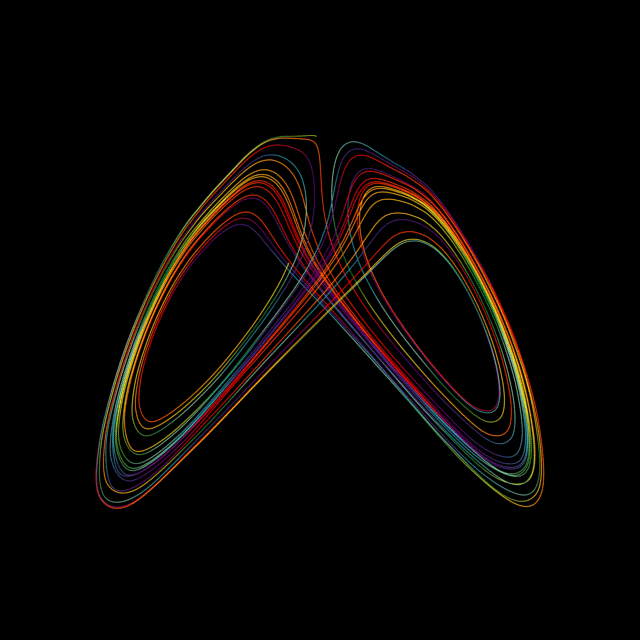
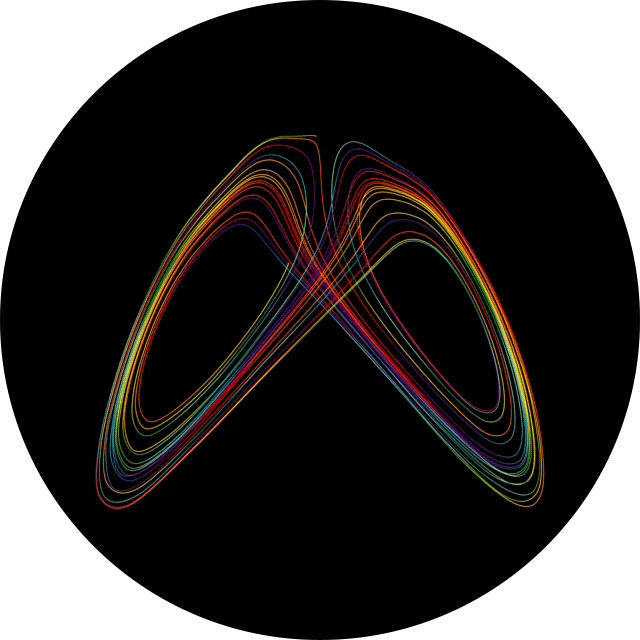
为图层新增了遮罩(Mask)属性，允许类似于PS中蒙版使用

diff --git a/avg.min.js b/avg.min.js
@@ -1,1 +1,1 @@
-!function(t,n){function e(t,n){try{t.src&&(t.img=function(t){if(null==t)return null;try{let n=new Image;return n.src=t,n}catch(t){return null}}(t.src)),p[t.layer]=new function(t,n){this.img=t.img,this.layer=0,this.x,this.y,this.width,this.height,this.sx,this.sy,this.swidth,this.swidth,this.alpha,this.type="image",this.rotate,this.rotatePointX,this.rotatePointY;let e=this;null!=t.rotate?(this.rotate=t.rotate,this.rotatePointX=null!=t.rotatePointX?t.rotatePointX:null,this.rotatePointY=null!=t.rotatePointY?t.rotatePointY:null):(this.rotate=0,this.rotatePointX=0,this.rotatePointY=0),this.alpha=null==t.alpha?1:t.alpha,e.x=null==t.x?0:t.x,e.y=null==t.y?0:t.y,e.sx=null==t.sx?0:t.sx,e.sy=null==t.sx?0:t.sy,e.width=null==t.width?null!=t.img.width?t.img.width:0:t.width,e.height=null==t.height?null!=t.img.height?t.img.height:0:t.height,e.swidth=null==t.swidth?null!=t.img.width?t.img.width:0:t.swidth,e.sheight=null==t.sheight?null!=t.img.height?t.img.height:0:t.sheight;let i=0;t.img.width>0&&t.img.height>0&&(i=1,n()),this.img.onload=function(){e.width=null==t.width?e.img.width:t.width,e.height=null==t.height?e.img.height:t.height,e.swidth=null==t.swidth?e.img.width:t.swidth,e.sheight=null==t.sheight?e.img.height:t.sheight,0==i&&n()}}(t,n)}catch(t){console.log(t)}}function o(t,n){try{p[t.layer]=new function(t,n){this.type="text",this.text=t.text,this.font=null==t.font?g:t.font,this.color=null==t.color?y:t.color,this.x=t.x,this.y=t.y,null!=t.rotate?(this.rotate=t.rotate,this.rotatePointX=null!=t.rotatePointX?t.rotatePointX:null,this.rotatePointY=null!=t.rotatePointY?t.rotatePointY:null):(this.rotate=0,this.rotatePointX=0,this.rotatePointY=0),this.alpha=null==t.alpha?1:t.alpha,n()}(t,n)}catch(t){console.log(t)}}function l(t){let n=w.createElement("canvas");t.idName=null!=t.idName?t.idName:"avgMain",t.className=null!=t.className?t.className:"avgMain",t.realName=null!=t.realName?t.realName:"avgMain",n.setAttribute("id",null!=t.idName?t.idName:"avgMain"),n.setAttribute("class",null!=t.className?t.className:"avgCanvas"),d=null!=t.backgroundColor?t.backgroundColor:"#000",g=null!=t.defaultFont?t.defaultFont:'40px Arial,"Microsoft Yahei"',y=null!=t.defaultFontColor?t.defaultFontColor:"#FFF",n.setAttribute("name",t.realName?t.realName:"avgMain"),n.width=t.width,n.height=t.height,n.style.touchAction="none",w.body.insertBefore(n,w.body.lastChild),a=n,r=n.getContext("2d"),h=null!=t.volumeBGM?t.volumeBGM:.7,s=null!=t.volumeSE?t.volumeSE:.7,c=null!=t.volumeVoice?t.volumeVoice:.7,f=t.width,m=t.height,F=new A;let e,i=a;i.addEventListener("mousemove",function(n){e=i.getBoundingClientRect(),x=(n.clientX-e.left)*(t.width/e.width),P=(n.clientY-e.top)*(t.height/e.height)}),function(){let t=requestAnimationFrame(function n(){r.beginPath(),r.globalAlpha=1,r.fillStyle=d,r.fillRect(0,0,f,m);for(let t in p){let n=p[t];if(n&&"image"==n.type){if(r.globalAlpha=n.alpha,0!=n.rotate){let t=0,e=0;null==n.rotatePointX&&null==n.rotatePointY?(t=n.x,e=n.y):null==n.rotatePointX&&null==n.rotatePointY||(t=n.rotatePointX,e=n.rotatePointY),r.translate(t,e);let i=n.rotate*Math.PI/180;r.rotate(i),r.drawImage(n.img,n.sx,n.sy,n.swidth,n.sheight,n.x-t,n.y-e,n.width,n.height),r.rotate(-i),r.translate(-t,-e);continue}r.drawImage(n.img,n.sx,n.sy,n.swidth,n.sheight,n.x,n.y,n.width,n.height)}else if(n&&"text"==n.type){if(r.globalAlpha=n.alpha,r.fillStyle=n.color,r.font=n.font,0!=n.rotate){let t=0,e=0;null==n.rotatePointX&&null==n.rotatePointY?(t=n.x,e=n.y):null==n.rotatePointX&&null==n.rotatePointY||(t=n.rotatePointX,e=n.rotatePointY),r.translate(t,e);let i=n.rotate*Math.PI/180;r.rotate(i),r.fillText(n.text,n.x-t,n.y-e),r.rotate(-i),r.translate(-t,-e);continue}r.fillText(n.text,n.x,n.y)}}r.closePath(),t=requestAnimationFrame(n)})}(),console.log("avg.Js 已完成初始化")}let a,r,u,h,s,c,f,m,d,g,y,w=t.document,p=(t.navigator,t.location,new Array),v=new Array,x=0,P=0;new(t.AudioContext||t.webkitAudioContext);v.remove=(t=>{for(const n in v)if(v.hasOwnProperty(n)){if(v[n]===t)return void v.splice(n,1)}});class A{constructor(){this._queue=new Array,this.next()}add(t){this._queue.push(function(){return new Promise(n=>{t(n)})})}hasNext(){return this._queue.length>0}next(){const t=this;this._raf=requestAnimationFrame(async function n(){for(;t.hasNext();)await t._queue[0](),t._queue.splice(0,1);t.raf=requestAnimationFrame(n)})}stopQueue(){cancelAnimationFrame(this._raf)}}let F;t.avg={};let Y=t.avg;Y.creaveWindow=l,Y.loadImage=function(t){F.add(function(n){e(t,n)})},Y.loadText=function(t){F.add(function(n){o(t,n)})},Y.playBGM=function(t){F.add(function(n){!function(t,n){try{t.src?u?u.src=t.src:u=new Audio(t.src):(u&&u.pause(),u=t.audio),u.autoplay=!0,u.loop=!0,u.volume=h*(null==t.volume?1:t.volume),n(),4==u.readyState?u.play():u.oncanplay=function(){u.play()}}catch(t){console.log(t),n()}}(t,n)})},Y.stopBGM=function(t){F.add(function(n){!function(t={time:0},n){if(!u)return void n();let e,i,o=u.volume;n(),requestAnimationFrame(function n(l){e||(e=l),0==t.time&&(t.time=1),(i=1-(l-e)/t.time)<0&&(i=0),u.volume=o*i,i>0&&requestAnimationFrame(n)})}(t,n)})},Y.playSE=function(t){F.add(function(n){!function(t,n){try{let e;e=t.src?v.push(new Audio(t.src))-1:v.push(t.audio)-1,(e=v[e]).autoplay=!0,e.loop=!!t.loop,e.volume=s*(null==t.volume?1:t.volume),e.onended=function(){v.remove(e)},n(),4==e.readyState?e.play():e.oncanplay=function(){e.play()}}catch(t){console.log(t),n()}}(t,n)})},Y.setLayer=function(t){F.add(function(n){!function(t,n){t.layer&&t.from?(p[t.layer]=t.from,t.from.layer=t.layer,n()):n()}(t,n)})},Y.removeLayer=function(t){F.add(function(n){!function(t,n){if(!t.layer)return void n();const e=p[t.layer];p[t.layer]=null,t.fun&&t.fun(e),n()}(t,n)})},Y.removeAllLayer=function(){F.add(function(t){!function(t){for(i in p)p[i]=null;t()}(t)})},Y.move=function(t,n){F.add(function(e){!function(t,n=0,e){try{if(p[t.layer]){let i,o={},l=performance.now(),a=n,r={};for(let n in t)r[n]=p[t.layer][n],o[n]=p[t.layer][n],o[n]-=t[n],o[n]*=-1;if(0==n){for(let n in t)p[t.layer][n]=t[n];return void e()}o.layer=0;let u,h,s=t.layer,c=requestAnimationFrame(function t(){if(u<=0){for(let t in o)p[s][t]=o[t]+r[t];return cancelAnimationFrame(c),!0}i=performance.now(),(h=0==a?1:(i-l)/a)>1&&(h=1);for(let t in o)p[s][t]=h*o[t]+r[t];u=a-(i-l),h<1&&(c=requestAnimationFrame(t))});e()}}catch(t){console.log(t)}}(t,n,e)})},Y.wait=function(t){F.add(function(n){!function(t,n){let e=performance.now();(t-=13.34)<0&&(t=0);let i,o=requestAnimationFrame(function l(){(i=performance.now()-e)>=t?n():o=requestAnimationFrame(l)})}(t,n)})},Y.waitByFrame=function(t){F.add(function(n){!function(t,n){let e=t,i=requestAnimationFrame(function t(){--e<=0?n():i=requestAnimationFrame(t)})}(t,n)})},Y.setColor=function(t,n){F.add(function(e){p[t].color=n,e()})},Y.runFunction=function(t){F.add(function(n){!function(t,n){let e=!0;const i=F;F=new A;var o;try{t()}catch(t){console.log("catch Error"),o=t,t.info&&"BREAK_BY_AVG"===t.info?(t.plies--,t.plies<=0&&(e=!0,console.log("runFunction Broke"))):(console.log(t),console.log("runFunction runError"))}finally{if(F=i,e)n();else if(o)throw o}}(t,n)})},Y.break=function(t){!function(t=1){throw{plies:t,info:"BREAK_BY_AVG"}}(t)},Y.getLayerClientRect=function(t){const n=p[t];return n?{x:n.x,y:n.y,width:n.width,height:n.height}:null},Y.run=Y.runFunction,Y.getDOM=function(){return a},Y.mouse={x:new function(){this.toString=function(){return x}},y:new function(){this.toString=function(){return P}}}}(window);
+!function(t,n){function e(t,n){try{t.src&&(t.img=function(t){if(null==t)return null;try{let n=new Image;return n.src=t,n}catch(t){return null}}(t.src)),x[t.layer]=new function(t,n){this.img=t.img,this.layer=0,this.x,this.y,this.width,this.height,this.sx,this.sy,this.swidth,this.swidth,this.alpha,this.type="image",this.rotate,this.rotatePointX,this.rotatePointY,this.mask=!!t.mask;const e=this;null!=t.rotate?(this.rotate=t.rotate,this.rotatePointX=null!=t.rotatePointX?t.rotatePointX:null,this.rotatePointY=null!=t.rotatePointY?t.rotatePointY:null):(this.rotate=0,this.rotatePointX=0,this.rotatePointY=0),this.alpha=null==t.alpha?1:t.alpha,e.x=null==t.x?0:t.x,e.y=null==t.y?0:t.y,e.sx=null==t.sx?0:t.sx,e.sy=null==t.sx?0:t.sy,e.width=null==t.width?null!=t.img.width?t.img.width:0:t.width,e.height=null==t.height?null!=t.img.height?t.img.height:0:t.height,e.swidth=null==t.swidth?null!=t.img.width?t.img.width:0:t.swidth,e.sheight=null==t.sheight?null!=t.img.height?t.img.height:0:t.sheight;let i=0;t.img.width>0&&t.img.height>0&&(i=1,n()),this.img.onload=function(){e.width=null==t.width?e.img.width:t.width,e.height=null==t.height?e.img.height:t.height,e.swidth=null==t.swidth?e.img.width:t.swidth,e.sheight=null==t.sheight?e.img.height:t.sheight,0==i&&n()}}(t,n)}catch(t){console.log(t)}}function o(t,n){try{x[t.layer]=new function(t,n){this.type="text",this.text=t.text,this.font=null==t.font?w:t.font,this.color=null==t.color?p:t.color,this.x=t.x,this.y=t.y,null!=t.rotate?(this.rotate=t.rotate,this.rotatePointX=null!=t.rotatePointX?t.rotatePointX:null,this.rotatePointY=null!=t.rotatePointY?t.rotatePointY:null):(this.rotate=0,this.rotatePointX=0,this.rotatePointY=0),this.mask=!!t.mask,this.alpha=null==t.alpha?1:t.alpha,n()}(t,n)}catch(t){console.log(t)}}function l(t){let n=v.createElement("canvas");t.idName=null!=t.idName?t.idName:"avgMain",t.className=null!=t.className?t.className:"avgMain",t.realName=null!=t.realName?t.realName:"avgMain",n.setAttribute("id",null!=t.idName?t.idName:"avgMain"),n.setAttribute("class",null!=t.className?t.className:"avgCanvas"),y=null!=t.backgroundColor?t.backgroundColor:"#000",w=null!=t.defaultFont?t.defaultFont:'40px Arial,"Microsoft Yahei"',p=null!=t.defaultFontColor?t.defaultFontColor:"#FFF",n.setAttribute("name",t.realName?t.realName:"avgMain"),n.width=t.width,n.height=t.height,n.style.touchAction="none",v.body.insertBefore(n,v.body.lastChild),a=n,u=n.getContext("2d"),(r=v.createElement("canvas")).width=t.width,r.height=t.height,h=r.getContext("2d"),c=null!=t.volumeBGM?t.volumeBGM:.7,f=null!=t.volumeSE?t.volumeSE:.7,m=null!=t.volumeVoice?t.volumeVoice:.7,d=t.width,g=t.height,q=new Y;let e,i=a;i.addEventListener("mousemove",function(n){e=i.getBoundingClientRect(),A=(n.clientX-e.left)*(t.width/e.width),F=(n.clientY-e.top)*(t.height/e.height)}),function(){u.globalCompositeOperation="destination-over",h.globalCompositeOperation="source-in";let t,n;requestAnimationFrame(function e(){u.beginPath(),u.clearRect(0,0,d,g);for(var i=x.length-1;i>=0;i--)if(x[i]){const e=x[i];if(e.mask&&!n&&(n=!0,t=u,u=h),"image"==e.type){if(u.globalAlpha=e.alpha,0!=e.rotate){let t=0,n=0;null==e.rotatePointX&&null==e.rotatePointY?(t=e.x,n=e.y):null==e.rotatePointX&&null==e.rotatePointY||(t=e.rotatePointX,n=e.rotatePointY),u.translate(t,n);let i=e.rotate*Math.PI/180;u.rotate(i),u.drawImage(e.img,e.sx,e.sy,e.swidth,e.sheight,e.x-t,e.y-n,e.width,e.height),u.rotate(-i),u.translate(-t,-n);continue}u.drawImage(e.img,e.sx,e.sy,e.swidth,e.sheight,e.x,e.y,e.width,e.height)}else if("text"==e.type){if(u.globalAlpha=e.alpha,u.fillStyle=e.color,u.font=e.font,0!=e.rotate){let t=0,n=0;null==e.rotatePointX&&null==e.rotatePointY?(t=e.x,n=e.y):null==e.rotatePointX&&null==e.rotatePointY||(t=e.rotatePointX,n=e.rotatePointY),u.translate(t,n);let i=e.rotate*Math.PI/180;u.rotate(i),u.fillText(e.text,e.x-t,e.y-n),u.rotate(-i),u.translate(-t,-n);continue}u.fillText(e.text,e.x,e.y)}n&&!e.mask&&(n=!1,(u=t).drawImage(r,0,0),h.clearRect(0,0,d,g))}u.globalAlpha=1,u.fillStyle=y,u.fillRect(0,0,d,g),u.closePath(),requestAnimationFrame(e)})}(),console.log("avg.Js 已完成初始化")}let a,r,u,h,s,c,f,m,d,g,y,w,p,v=t.document,x=(t.navigator,t.location,new Array),P=new Array,A=0,F=0;new(t.AudioContext||t.webkitAudioContext);P.remove=(t=>{for(const n in P)if(P.hasOwnProperty(n)){if(P[n]===t)return void P.splice(n,1)}});class Y{constructor(){this._queue=new Array,this.next()}add(t){this._queue.push(function(){return new Promise(n=>{t(n)})})}hasNext(){return this._queue.length>0}next(){const t=this;this._raf=requestAnimationFrame(async function n(){for(;t.hasNext();)await t._queue[0](),t._queue.splice(0,1);t.raf=requestAnimationFrame(n)})}stopQueue(){cancelAnimationFrame(this._raf)}}let q;t.avg={};let N=t.avg;N.creaveWindow=l,N.loadImage=function(t){q.add(function(n){e(t,n)})},N.loadText=function(t){q.add(function(n){o(t,n)})},N.playBGM=function(t){q.add(function(n){!function(t,n){try{t.src?s?s.src=t.src:s=new Audio(t.src):(s&&s.pause(),s=t.audio),s.autoplay=!0,s.loop=!0,s.volume=c*(null==t.volume?1:t.volume),n(),4==s.readyState?s.play():s.oncanplay=function(){s.play()}}catch(t){console.log(t),n()}}(t,n)})},N.stopBGM=function(t){q.add(function(n){!function(t={time:0},n){if(!s)return void n();let e,i,o=s.volume;n(),requestAnimationFrame(function n(l){e||(e=l),0==t.time&&(t.time=1),(i=1-(l-e)/t.time)<0&&(i=0),s.volume=o*i,i>0&&requestAnimationFrame(n)})}(t,n)})},N.playSE=function(t){q.add(function(n){!function(t,n){try{let e;e=t.src?P.push(new Audio(t.src))-1:P.push(t.audio)-1,(e=P[e]).autoplay=!0,e.loop=!!t.loop,e.volume=f*(null==t.volume?1:t.volume),e.onended=function(){P.remove(e)},n(),4==e.readyState?e.play():e.oncanplay=function(){e.play()}}catch(t){console.log(t),n()}}(t,n)})},N.setLayer=function(t){q.add(function(n){!function(t,n){t.layer&&t.from?(x[t.layer]=t.from,t.from.layer=t.layer,n()):n()}(t,n)})},N.removeLayer=function(t){q.add(function(n){!function(t,n){if(!t.layer)return void n();const e=x[t.layer];x[t.layer]=null,t.fun&&t.fun(e),n()}(t,n)})},N.removeAllLayer=function(){q.add(function(t){!function(t){for(i in x)x[i]=null;t()}(t)})},N.move=function(t,n){q.add(function(e){!function(t,n=0,e){try{if(x[t.layer]){let i,o={},l=performance.now(),a=n,r={};for(let n in t)r[n]=x[t.layer][n],o[n]=x[t.layer][n],o[n]-=t[n],o[n]*=-1;if(0==n){for(let n in t)x[t.layer][n]=t[n];return void e()}o.layer=0;let u,h,s=t.layer,c=requestAnimationFrame(function t(){if(u<=0){for(let t in o)x[s][t]=o[t]+r[t];return cancelAnimationFrame(c),!0}i=performance.now(),(h=0==a?1:(i-l)/a)>1&&(h=1);for(let t in o)x[s][t]=h*o[t]+r[t];u=a-(i-l),h<1&&(c=requestAnimationFrame(t))});e()}}catch(t){console.log(t)}}(t,n,e)})},N.wait=function(t){q.add(function(n){!function(t,n){let e=performance.now();(t-=13.34)<0&&(t=0);let i,o=requestAnimationFrame(function l(){(i=performance.now()-e)>=t?n():o=requestAnimationFrame(l)})}(t,n)})},N.waitByFrame=function(t){q.add(function(n){!function(t,n){let e=t,i=requestAnimationFrame(function t(){--e<=0?n():i=requestAnimationFrame(t)})}(t,n)})},N.setColor=function(t,n){q.add(function(e){x[t].color=n,e()})},N.runFunction=function(t){q.add(function(n){!function(t,n){let e=!0;const i=q;q=new Y;var o;try{t()}catch(t){o=t,t.info&&"BREAK_BY_AVG"===t.info?(t.plies--,t.plies<=0&&(e=!0,console.log("runFunction Broke"))):(console.log(t),console.log("runFunction runError"))}finally{if(q=i,e)n();else if(o)throw o}}(t,n)})},N.break=function(t){!function(t=1){throw{plies:t,info:"BREAK_BY_AVG"}}(t)},N.getLayerClientRect=function(t){const n=x[t];return n?{x:n.x,y:n.y,width:n.width,height:n.height}:null},N.run=N.runFunction,N.getDOM=function(){return a},N.mouse={x:new function(){this.toString=function(){return A}},y:new function(){this.toString=function(){return F}}}}(window);

diff --git a/avg.js b/avg.js
@@ -5,11 +5,23 @@
      * @type {HTMLCanvasElement}
      */
     let canvasMain; //主绘图板
+    /**
+     * @type {HTMLCanvasElement}
+     */
+    let canvasMask; //遮罩层绘图板
 
     let document = window.document,
         navigator = window.navigator,
         location = window.location;
+    /**
+     * @type {CanvasRenderingContext2D}
+     */
     let paintBrush; //2D画笔
+    /**
+     * @type {CanvasRenderingContext2D}
+     */
+    let paintBrushForMask; //遮罩层话必
+
     let theLayer = new Array(); //图层记录
     /**
      * @type {HTMLAudioElement}
@@ -105,7 +117,8 @@
             this.alpha,
             (this.type = "image");
         this.rotate, this.rotatePointX, this.rotatePointY;
-        let obj = this;
+        this.mask = p.mask ? true : false;
+        const obj = this;
         if (p.rotate != null) {
             //旋转相关
             this.rotate = p.rotate;
@@ -167,6 +180,7 @@
             this.rotatePointX = 0;
             this.rotatePointY = 0;
         }
+        this.mask = p.mask ? true : false;
         this.alpha = p.alpha == null ? 1 : p.alpha;
         resolve();
     }
@@ -305,30 +319,24 @@
         newCanvasObject.width = p.width;
         newCanvasObject.height = p.height;
         newCanvasObject.style.touchAction = "none";
-        // newCanvasObject.setAttribute(
-        //     "style",
-        //     "width:" + p.width + "px;height:" + p.height + "px;"
-        // );
-        //设置div的属性
-        //newCanvasObject.innerHTML = '';
-        //设置显示的数据，可以是标签
-        //newCanvasObject.style.width = width;
-        //newCanvasObject.style.height = height;
-        //设置css样式
+
         document.body.insertBefore(newCanvasObject, document.body.lastChild);
+
         canvasMain = newCanvasObject;
         paintBrush = newCanvasObject.getContext("2d");
-        //document.write(newCanvasObject);
-        //动态插入到body中
-        //refreshRate = p.refresh == null ? 10 : p.refresh;
-        //console.log(refreshRate);
-        //refreshSet = performance.now();
+
+        canvasMask = document.createElement("canvas");
+        canvasMask.width = p.width;
+        canvasMask.height = p.height;
+        paintBrushForMask = canvasMask.getContext("2d");
+
         //音量
         volumeBGM = p.volumeBGM != null ? p.volumeBGM : 0.7;
         volumeSE = p.volumeSE != null ? p.volumeSE : 0.7;
         volumeVoice = p.volumeVoice != null ? p.volumeVoice : 0.7;
         windowWidth = p.width;
         windowHeight = p.height;
+
         eQ = new EventQueue(); //创建一个事件队列对象
 
         let dom = canvasMain;
@@ -417,21 +425,24 @@
     }
     //依次重新绘制图层
     function drawImageLayer() {
-        let raf = requestAnimationFrame(function autoRun() {
-            //if (performance.now() - refreshSet >= refreshRate) { //老的基于setTimeout
-            if (true) {
-                //refreshSet = performance.now();
-                //console.log(imageLayer);
-                paintBrush.beginPath();
-                paintBrush.globalAlpha = 1;
-                paintBrush.fillStyle = backgroundColor;
-                paintBrush.fillRect(0, 0, windowWidth, windowHeight);
-                for (let i in theLayer) {
-                    let e = theLayer[i];
-                    //console.log(i);
-                    //console.log(e);
+        paintBrush.globalCompositeOperation = "destination-over";
+        paintBrushForMask.globalCompositeOperation = "source-in";
+        let paintBrushBackup;
+        let maskFlag;
+        requestAnimationFrame(function autoRun() {
+            paintBrush.beginPath();
+            paintBrush.clearRect(0, 0, windowWidth, windowHeight);
+            for (var i = theLayer.length - 1; i >= 0; i--) {
+                if (theLayer[i]) {
+                    const e = theLayer[i];
+                    //遮罩层逻辑
+                    if (e.mask && !maskFlag) {
+                        maskFlag = true;
+                        paintBrushBackup = paintBrush;
+                        paintBrush = paintBrushForMask;
+                    }
                     //图像绘制逻辑
-                    if (e && e.type == "image") {
+                    if (e.type == "image") {
                         paintBrush.globalAlpha = e.alpha;
                         if (e.rotate != 0) {
                             let _rX = 0;
@@ -442,7 +453,6 @@
                             ) {
                                 _rX = e.x;
                                 _rY = e.y;
-                                //console.log(_rX + "," + _rY);
                             } else if (
                                 e.rotatePointX != null ||
                                 e.rotatePointY != null
@@ -479,8 +489,7 @@
                             e.width,
                             e.height
                         );
-                        //paintBrush.drawImage(e.img, e.x, e.y);
-                    } else if (e && e.type == "text") {
+                    } else if (e.type == "text") {
                         paintBrush.globalAlpha = e.alpha;
                         paintBrush.fillStyle = e.color;
                         paintBrush.font = e.font;
@@ -493,7 +502,6 @@
                             ) {
                                 _rX = e.x;
                                 _rY = e.y;
-                                //console.log(_rX + "," + _rY);
                             } else if (
                                 e.rotatePointX != null ||
                                 e.rotatePointY != null
@@ -511,13 +519,20 @@
                         }
                         paintBrush.fillText(e.text, e.x, e.y);
                     }
+                    //遮罩层逻辑
+                    if (maskFlag &&!e.mask) {
+                        maskFlag = false;
+                        paintBrush = paintBrushBackup;
+                        paintBrush.drawImage(canvasMask,0,0);
+                        paintBrushForMask.clearRect(0, 0, windowWidth, windowHeight);
+                    }
                 }
-                paintBrush.closePath();
-                // a.forEach(function (e) {
-                //     paintBrush.drawImage(e.img, e.sx, e.sy, e.swidth, e.sheight, e.x, e.y, e.width, e.height)
-                // }, this);
             }
-            raf = requestAnimationFrame(autoRun);
+            paintBrush.globalAlpha = 1;
+            paintBrush.fillStyle = backgroundColor;
+            paintBrush.fillRect(0, 0, windowWidth, windowHeight);
+            paintBrush.closePath();
+            requestAnimationFrame(autoRun);
         });
     }
     //播放BGM
@@ -625,7 +640,7 @@
         try {
             f();
         } catch (e) {
-            console.log("catch Error");
+            //console.log("catch Error");
             error = e;
             if (e.info && e.info === "BREAK_BY_AVG") {
                 e.plies--;
